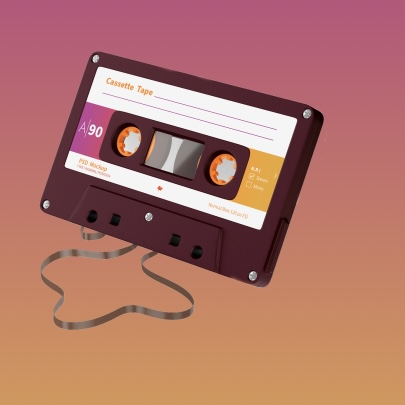
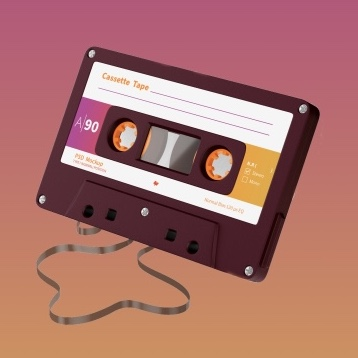
b-side improvements

Changed region(s): [[0.0922, 0.1229, 0.8911, 0.9218]]

diff --git a/src/Screens/Projects/BSideMusic.jsx b/src/Screens/Projects/BSideMusic.jsx
@@ -12,12 +12,12 @@ function BSideMusic() {
         <div className="project-descripton-images-container">
           <img
             src={bside1}
-            className="project-descripton-image"
+            className="project-descripton-image bside-image"
             alt="b-side music screen shot"
           />
           <img
             src={bside2}
-            className="project-descripton-image"
+            className="project-descripton-image bside-image"
             alt="b-side music screen shot"
           />
         </div>

diff --git a/src/Screens/Project.jsx b/src/Screens/Project.jsx
@@ -1,7 +1,7 @@
 import earth from "../images/earth.gif";
 import trivia from "../images/trivia.png";
 import simpsons from "../images/simpsons.png";
-import bside from "../images/bside.png";
+import bside from "../images/bside.jpg";
 import MovingComponent from "react-moving-text";
 import { Link } from "react-router-dom";
 import "../Screens/Projects/Projects.css";

diff --git a/src/Screens/Projects/Projects.css b/src/Screens/Projects/Projects.css
@@ -92,6 +92,11 @@
   background-color:magenta;
 }
 
+.bside-image{
+  border: 1px solid gray;
+  
+}
+
 
 
 @media only screen and (max-width: 600px) { 
